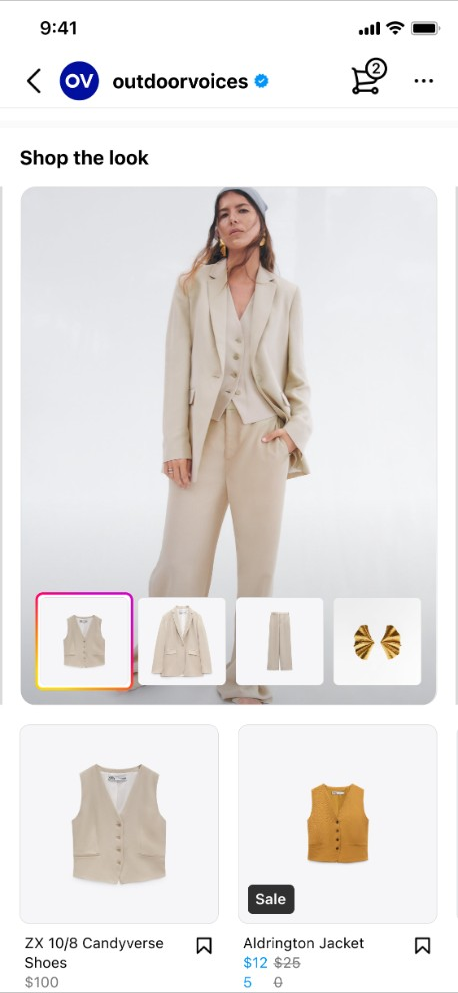
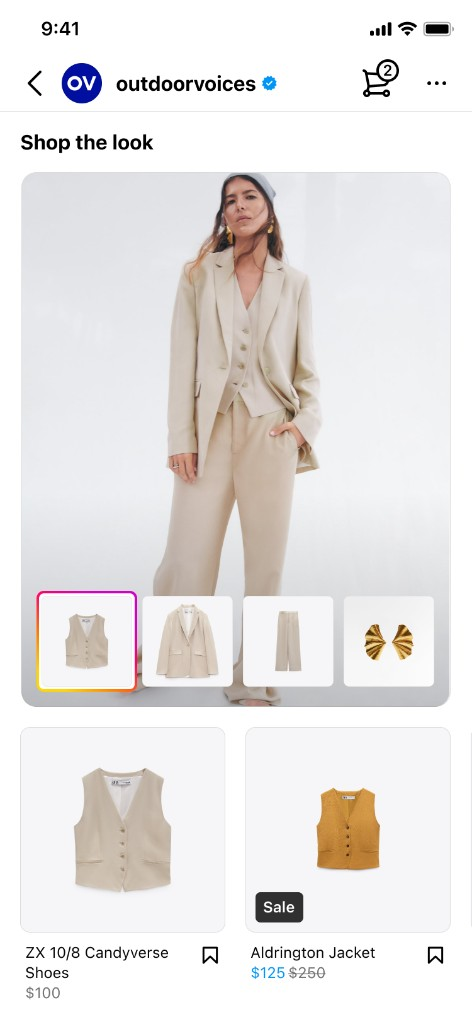
Align work media sizing and polish lightbox phone mockups.
Scale Meta Shops cards down on large screens, size Square/Cash via layout instead of transforms, unify lightbox corner radii with carousel cards, and refresh Complete the Look's first screenshot.

diff --git a/style.css b/style.css
@@ -1355,6 +1355,11 @@ body.brand-active .main-blurb-availability .status-dot {
   box-shadow: none;
   filter: none;
 }
+
+.carousel-slide .bento-card--cash .cash-phone-row .phone-mockup img {
+  transform: scale(1.006);
+  transform-origin: center center;
+}
 .carousel-slide .bento-card--cash .bento-card-title { color: #fff; }
 .carousel-slide .bento-card--cash .bento-card-sub,
 .carousel-slide .bento-card--cash .bento-card-desc { color: rgba(255, 255, 255, 0.9); }
@@ -1562,6 +1567,23 @@ body.brand-active .main-blurb-availability .status-dot {
   width: auto;
   height: auto;
   align-self: center;
+}
+
+@media (min-width: 769px) {
+  :is(#workCarousel, .work-carousel-lightbox-context) .bento-card--meta .bento-card-visual--phones:not(.bento-card-visual--scroll-x) {
+    --meta-phone-media-scale: 0.94;
+    gap: calc(clamp(4px, 1.75cqi, 10px) * var(--meta-phone-media-scale));
+  }
+
+  :is(#workCarousel, .work-carousel-lightbox-context) .bento-card--meta .bento-card-visual--phones:not(.bento-card-visual--scroll-x) .phone-mockup {
+    max-width: min(
+      calc(36% * var(--meta-phone-media-scale)),
+      max(
+        calc(64px * var(--meta-phone-media-scale)),
+        calc(30cqi * var(--meta-phone-media-scale))
+      )
+    );
+  }
 }
 
 :is(#workCarousel, .work-carousel-lightbox-context) .carousel-slide .bento-card-visual--video,
@@ -1816,6 +1838,11 @@ body.brand-active .main-blurb-availability .status-dot {
 
 .carousel-slide .bento-card--square .phone-mockup:not(.phone-mockup--desktop-walkthrough) {
   filter: none;
+}
+
+.carousel-slide .bento-card--square .phone-mockup--desktop-walkthrough {
+  filter: none;
+  box-shadow: none;
 }
 .carousel-slide .bento-card--meta .bento-card-title { color: #fff; }
 .carousel-slide .bento-card--meta .bento-card-sub,
@@ -5606,6 +5633,7 @@ html[data-theme="dark"] .theme-toggle .icon-sun {
 .asset-lightbox-item--card-scale {
   --lb-phone-height: min(56vh, 500px);
   --lb-phone-width: calc(var(--lb-phone-height) * 475 / 1024);
+  --lb-phone-radius: clamp(13.5px, calc(var(--lb-phone-width) * 0.133), 26.5px);
   --lb-square-desktop-width: calc(var(--lb-phone-height) * 2562 / 2032);
   --lb-cash-cart-desktop-width: calc(var(--lb-phone-height) * 2898 / 1874);
   --lb-cash-checkout-desktop-width: calc(var(--lb-phone-height) * 2898 / 1896);
@@ -5734,11 +5762,6 @@ html[data-theme="dark"] .theme-toggle .icon-sun {
   padding-left: clamp(40px, 6vw, 80px) !important;
 }
 
-.asset-lightbox-item--card-scale .bento-card--cash .phone-mockup:not(.phone-mockup--desktop-walkthrough),
-.asset-lightbox-item--card-scale .bento-card--cash .phone-mockup--desktop-walkthrough {
-  border-radius: clamp(28px, 2.6vw, 38px) !important;
-}
-
 .asset-lightbox-item--card-scale .bento-card-visual--phones .phone-mockup,
 .asset-lightbox-item--card-scale :is(.work-carousel-lightbox-context) .bento-card-visual--phones .phone-mockup {
   flex: 0 0 auto !important;
@@ -5755,7 +5778,7 @@ html[data-theme="dark"] .theme-toggle .icon-sun {
   max-height: none !important;
   aspect-ratio: auto !important;
   align-self: center !important;
-  border-radius: clamp(18px, 1.6vw, 24px) !important;
+  border-radius: var(--lb-phone-radius) !important;
   border-width: 2px !important;
 }
 
@@ -5768,7 +5791,7 @@ html[data-theme="dark"] .theme-toggle .icon-sun {
   aspect-ratio: auto !important;
   align-self: center !important;
   border: 2px solid rgba(0, 0, 0, 0.14) !important;
-  border-radius: clamp(18px, 1.6vw, 24px) !important;
+  border-radius: var(--lb-phone-radius) !important;
   background: #fff;
   box-shadow: none;
   filter: none !important;
@@ -5795,8 +5818,20 @@ html[data-theme="dark"] .theme-toggle .icon-sun {
   object-fit: cover;
 }
 
-.asset-lightbox-item--card-scale .bento-card--meta .phone-mockup:not(.phone-mockup--desktop-walkthrough) {
-  border-radius: clamp(26px, 2.4vw, 36px) !important;
+@media (min-width: 769px) {
+  .asset-lightbox-item--card-scale:has(.bento-card--square),
+  .asset-lightbox-item--card-scale:has(.bento-card--cash) {
+    --lb-phone-height: min(53.872vh, 481px);
+  }
+
+  .asset-lightbox-item--card-scale:has(.bento-card--meta) {
+    --lb-phone-height: min(52.64vh, 470px);
+  }
+}
+
+.asset-lightbox-item--card-scale:has([data-work-card-id="meta-commerce-shops-cart"]) .phone-mockup {
+  --lb-phone-radius: clamp(28px, calc(var(--lb-phone-width) * 0.155), 38px);
+  border-radius: var(--lb-phone-radius) !important;
 }
 
 .asset-lightbox-item--card-scale .bento-card--meta .phone-mockup--video video {
@@ -5826,12 +5861,22 @@ html[data-theme="dark"] .theme-toggle .icon-sun {
   background: #fff;
 }
 
+.asset-lightbox-item--card-scale .bento-card--cash .cash-phone-row .phone-mockup img {
+  transform: scale(1.006) !important;
+  transform-origin: center center;
+}
+
 .asset-lightbox-item--card-scale .bento-card--cash .phone-mockup--desktop-walkthrough.phone-mockup--video video {
   object-fit: cover !important;
   object-position: center center !important;
   transform: scale(1.025) !important;
   transform-origin: center center;
   background: #fff;
+}
+
+.asset-lightbox-item--card-scale .bento-card--square .phone-mockup--desktop-walkthrough {
+  filter: none !important;
+  box-shadow: none !important;
 }
 
 .asset-lightbox-item--card-scale .asset-lightbox-card-clone > .bento-card-header,

diff --git a/script.js b/script.js
@@ -2317,6 +2317,7 @@
     var CASH_CART_DESKTOP_ASPECT = 2898 / 1874;
     var CASH_CHECKOUT_DESKTOP_ASPECT = 2898 / 1896;
     var PHONE_MOCKUP_ASPECT = 1024 / 475;
+    var SCROLL_CARD_MEDIA_SCALE = 0.962;
 
     function getDesktopAspect(desktop) {
       if (desktop.closest('.bento-card--cash')) {
@@ -2370,6 +2371,12 @@
       return width >= 8 ? width : 0;
     }
 
+    function getScrollCardMediaScale(row) {
+      if (!row || !row.closest('.bento-card--square, .bento-card--cash')) return 1;
+      if (window.matchMedia('(max-width: 768px)').matches) return 1;
+      return SCROLL_CARD_MEDIA_SCALE;
+    }
+
     function measureStandardPhoneWidth(row, viewport) {
       var phones = row.querySelectorAll('.phone-mockup');
       if (!phones.length) return 0;
@@ -2395,6 +2402,8 @@
       }
 
       if (phoneW < 8) return 0;
+
+      phoneW = Math.round(phoneW * getScrollCardMediaScale(row));
 
       phones.forEach(function(phone) {
         phone.style.flex = '0 0 auto';
@@ -4178,6 +4187,7 @@
       card.className = sourceCard.className + ' asset-lightbox-card-clone asset-lightbox-card-clone--visual-only';
       card.classList.remove('fade-in', 'is-card-hovered');
       card.removeAttribute('style');
+      card.dataset.workCardId = getCarouselCardId(sourceCard);
 
       var visualClone = sourceVisual.cloneNode(true);
       var stack = visualClone.querySelector('.card-stack--interactive');

diff --git a/index.html b/index.html
@@ -57,7 +57,7 @@
   <link rel="preconnect" href="https://fonts.gstatic.com" crossorigin>
   <link rel="preconnect" href="https://cdn.simpleicons.org" crossorigin>
   <link href="https://fonts.googleapis.com/css2?family=Gasoek+One&family=Geist:wght@400;500;600;700&display=swap" rel="stylesheet">
-  <link rel="stylesheet" href="style.css?v=work-media-lightbox-v46">
+  <link rel="stylesheet" href="style.css?v=work-media-lightbox-v56">
   <script>
     (function () {
       try {
@@ -332,7 +332,7 @@
                   <h3 class="bento-card-title">Meta Commerce:<br>Complete the Look</h3>
                 </div>
                 <div class="bento-card-visual bento-card-visual--phones">
-                  <div class="phone-mockup"><img src="assets/meta-shop-1.png?v=3" alt="Meta Commerce - Complete the Look outfit carousel" loading="lazy" /></div>
+                  <div class="phone-mockup"><img src="assets/meta-shop-1.png?v=4" alt="Meta Commerce - Complete the Look outfit carousel" loading="lazy" /></div>
                   <div class="phone-mockup"><img src="assets/meta-shop-2.png?v=2" alt="Meta Commerce - Complete the Look interactive product tags" loading="lazy" /></div>
                   <div class="phone-mockup"><img src="assets/meta-shop-3.png?v=5" alt="Meta Commerce - Complete the Look outdoorvoices shop" loading="lazy" /></div>
                 </div>
@@ -878,6 +878,6 @@
     </div>
   </div>
 
-  <script src="script.js?v=work-media-lightbox-v44"></script>
+  <script src="script.js?v=work-media-lightbox-v54"></script>
 </body>
 </html>

diff --git a/playground.js b/playground.js
@@ -7,7 +7,7 @@
     { src: 'assets/meta-2.png', type: 'image', aspect: 3 / 4, alt: 'Meta Shops — cart' },
     { src: 'assets/meta-cart-signals-walkthrough.mov', type: 'video', poster: 'assets/meta-3.png', aspect: 3 / 4, alt: 'Meta Shops — cart signals walkthrough' },
     { src: 'assets/meta-3.png', type: 'image', aspect: 3 / 4, alt: 'Meta Shops — checkout' },
-    { src: 'assets/meta-shop-1.png', type: 'image', aspect: 3 / 4, alt: 'Complete the Look — outfit carousel' },
+    { src: 'assets/meta-shop-1.png?v=4', type: 'image', aspect: 3 / 4, alt: 'Complete the Look — outfit carousel' },
     { src: 'assets/meta-shop-2.png', type: 'image', aspect: 3 / 4, alt: 'Complete the Look — product tags' },
     { src: 'assets/meta-shop-3.png?v=5', type: 'image', aspect: 3 / 4, alt: 'Complete the Look — outdoorvoices shop' },
     { src: 'assets/square-1.png', type: 'image', aspect: 3 / 4, alt: 'Square Online — cart' },